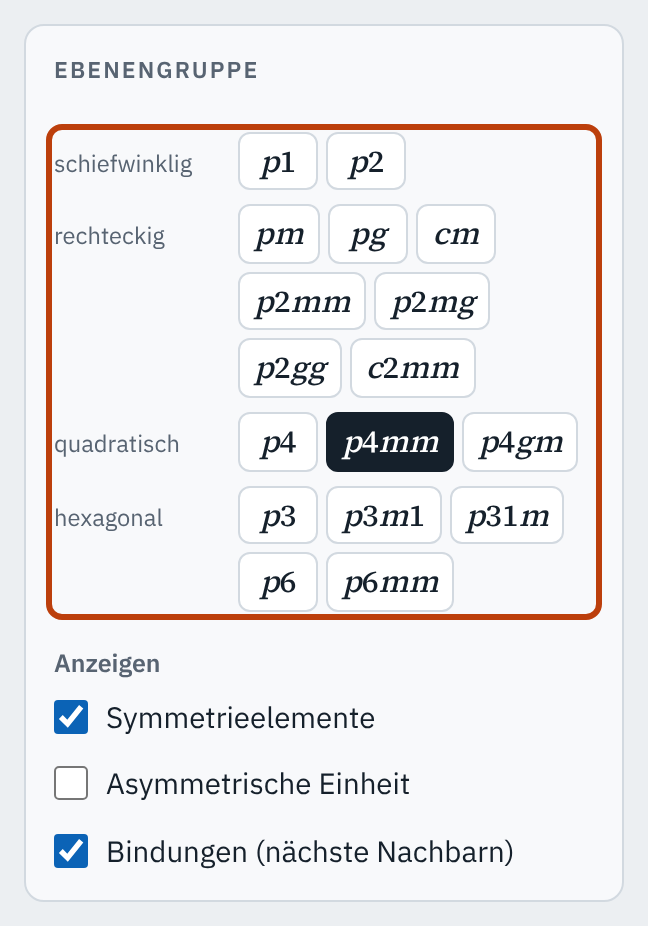
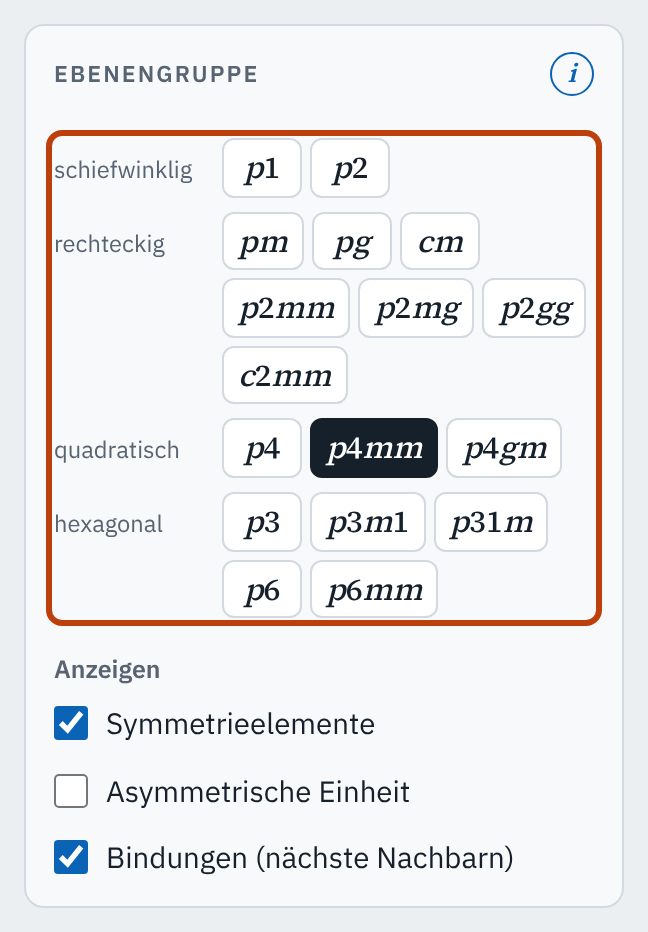
Gemeinsame Grundlage auf crystallography-common v0.20.0
ⓘ auf allen Geräten, nie allein umbrochen (crystallography-common#140);
Leitfaden 5.1 und 5.2 geschärft. Bilder der Hilfeseite neu.

Claude-Session: https://claude.ai/code/session_01L8SY96VTcRYuEB7LDLyNSV

diff --git a/lib/common/js/help.js b/lib/common/js/help.js
@@ -1,9 +1,8 @@
-// Hilfen: Tooltips (Laptop: Maus oder Tastaturfokus) und ⓘ-Erklärungen je Abschnitt (Touch-Geräte).
+// Hilfen: Tooltips (Laptop: Maus oder Tastaturfokus) und ⓘ-Erklärungen je Abschnitt (alle Geräte, #140).
 // Die Texte liefert die App (initHelp); hier steht nur die Mechanik. Stile in css/app.css (.tip, .infobtn, .helpbox).
 // Das zuletzt benutzte Zeigegerät steht als `data-zeiger` (maus | touch) an <html>; danach richten sich die Texte für
-// Maus und Touch (.only-fine, .only-coarse). Ein Stift zählt als Touch (kein Tooltip, Texte „antippen“). Nach dem ersten
-// Tippen steht dort zudem `data-touch`, und das ⓘ bleibt sichtbar, auch wenn danach wieder die Maus benutzt wird; meldet
-// der Browser hover: none, ist es immer sichtbar (#114). pruefeTooltips() ist für die Tests der App.
+// Maus und Touch (.only-fine, .only-coarse), auch im ⓘ, und die Grösse des ⓘ (28 px mit der Maus, 40 px mit Touch). Ein Stift zählt als Touch (kein Tooltip,
+// Texte „antippen“). pruefeTooltips() ist für die Tests der App.
 
 import { esc } from './format.js';
 
@@ -194,6 +193,36 @@ function buildHelpBox(sec) {
 }
 
 /**
+ * Hängt das ⓘ an das letzte Wort eines Titels, in einem Element, das nicht umbricht (`.nobr`): Bricht der Titel um,
+ * steht das ⓘ mit dem letzten Wort in der neuen Zeile, nie allein (Bedingung Thomas, #140). Endet der Titel mit einem
+ * Element (z. B. einem Symbol), wird dieses als Ganzes mit dem ⓘ zusammengehalten; der Titel einer `summary` steht
+ * deshalb als Text darin, nicht ganz in einem Element (sonst bräche er nicht mehr um).
+ * @param {HTMLElement} titel
+ * @param {HTMLElement} btn
+ */
+function anheften(titel, btn) {
+  const nobr = document.createElement('span');
+  nobr.className = 'nobr';
+  let letzter = titel.lastChild;
+  // Leerraum und Kommentare am Ende überspringen
+  while (letzter && (letzter.nodeType === Node.COMMENT_NODE || (letzter.nodeType === Node.TEXT_NODE && !letzter.textContent?.trim()))) {
+    const davor = letzter.previousSibling;
+    letzter.remove();
+    letzter = davor;
+  }
+  if (letzter && letzter.nodeType === Node.TEXT_NODE) {
+    const text = /** @type {Text} */ (letzter);
+    const t = text.data.trimEnd();
+    const i = t.search(/\S+$/);
+    text.data = t.slice(0, i);
+    nobr.append(t.slice(i));
+    if (!text.data) text.remove();
+  } else if (letzter) nobr.append(letzter);
+  nobr.append(btn);
+  titel.append(nobr);
+}
+
+/**
  * Tooltips und ⓘ-Erklärungen einrichten.
  * tips: Tooltip-Text (HTML) je Element-ID; bei Eingabefeldern erscheint er an der ganzen Zeile (.check, .range, .field).
  * sections: je Abschnitt { heading: Selektor der Überschrift (h2 oder summary), intro?: Einleitungssatz, ids: [Element-IDs] }.
@@ -215,12 +244,10 @@ export function initHelp({ tips = {}, sections = [], labels = {} } = {}) {
   /** @param {PointerEvent} e */
   const geraet = (e) => {
     maus = e.pointerType === 'mouse';
-    // für CSS (.only-fine, .only-coarse, .infobtn): nur bei einem Wechsel schreiben
+    // für CSS (.only-fine, .only-coarse, Grösse des ⓘ): nur bei einem Wechsel schreiben
     const zeiger = maus ? 'maus' : 'touch';
     const d = document.documentElement.dataset;
     if (d.zeiger !== zeiger) d.zeiger = zeiger;
-    // ⓘ: ab dem ersten Tippen, damit es nicht mit jeder Mausbewegung verschwindet (und eine offene Erklärung mit ihm)
-    if (!maus && d.touch === undefined) d.touch = '';
   };
   document.addEventListener('pointerdown', (e) => { geraet(e); tastatur = false; }, true);
   document.addEventListener('keydown', () => { tastatur = true; }, true);
@@ -247,7 +274,7 @@ export function initHelp({ tips = {}, sections = [], labels = {} } = {}) {
   document.addEventListener('keydown', (e) => { if (e.key === 'Escape') hideTip(); });
   window.addEventListener('scroll', hideTip, true);
 
-  // Touch: ⓘ an den Abschnittsüberschriften klappt die Erklärungen des Abschnitts auf
+  // ⓘ an den Abschnittsüberschriften klappt die Erklärungen des Abschnitts auf (auf allen Geräten, #140)
   for (const sec of sections) {
     const h = document.querySelector(sec.heading);
     if (!h) continue;
@@ -256,6 +283,7 @@ export function initHelp({ tips = {}, sections = [], labels = {} } = {}) {
     btn.className = 'infobtn';
     btn.setAttribute('aria-expanded', 'false');
     btn.setAttribute('aria-label', 'Erklärungen zu diesem Abschnitt');
+    setTip(btn, 'Erklärungen zu diesem Abschnitt ein- und ausklappen.');
     btn.innerHTML = '<span aria-hidden="true">i</span>';
     /** @type {HTMLElement | null} */
     let box = null;
@@ -280,10 +308,15 @@ export function initHelp({ tips = {}, sections = [], labels = {} } = {}) {
       btn.setAttribute('aria-expanded', 'true');
     });
     if (h.tagName === 'SUMMARY') {
+      // Titel (ohne .sumhint) in einem eigenen Element, das ⓘ fest am letzten Wort (#140)
+      const titel = document.createElement('span');
+      titel.className = 'sumtitel';
+      const hinweise = [...h.childNodes].filter((n) => n instanceof Element && n.classList.contains('sumhint'));
+      titel.append(...[...h.childNodes].filter((n) => !hinweise.includes(n)));
+      anheften(titel, btn);
       const label = document.createElement('span');
       label.className = 'sumlabel';
-      label.append(...h.childNodes);
-      label.append(btn);
+      label.append(titel, ...hinweise);
       h.append(label);
     } else h.append(btn);
   }

diff --git a/lib/common/css/app.css b/lib/common/css/app.css
@@ -184,28 +184,34 @@ a.helpbtn { display: inline-grid; place-items: center; text-decoration: none; }
 @media (pointer: coarse) {
   .ablauf-vermutung button { min-height: 40px; }
 }
-/* Hilfen: Tooltip (Laptop), ⓘ-Erklärungen (Touch) */
+/* Hilfen: Tooltip (Laptop), ⓘ-Erklärungen (alle Geräte, #140) */
 .tip {
   position: fixed; z-index: 50; max-width: 320px; padding: 7px 10px; border-radius: 7px; pointer-events: none;
   background: var(--ink); color: var(--paper); font-size: 0.8rem; line-height: 1.4; box-shadow: 0 4px 14px rgb(0 0 0 / 0.22);
 }
 .tip[hidden] { display: none; }
 .tip .ov { text-decoration: overline; }
+/* Trefferfläche mit der Maus 28 px (WCAG 2.5.8: 24 px), auf Touch-Geräten 40 px (Leitfaden 5.2); die negativen
+   Ränder halten die Zeile etwa so hoch wie ohne ⓘ (einige px höher) */
 .infobtn {
-  display: none; place-items: center; flex: none; width: 40px; height: 40px; margin: -10px -8px -10px 2px;
-  padding: 0; border: 0; background: transparent; cursor: pointer; color: var(--accent);
+  display: inline-grid; place-items: center; flex: none; width: 28px; height: 28px; margin: -4px -3px -4px 1px;
+  padding: 0; border: 0; background: transparent; cursor: pointer; color: var(--accent); vertical-align: middle;
 }
 .infobtn span {
   display: grid; place-items: center; width: 22px; height: 22px; border: 1.5px solid currentColor; border-radius: 50%;
   font: italic 600 0.82rem/1 var(--font-display); text-transform: none; letter-spacing: 0;
 }
 .infobtn[aria-expanded="true"] span { background: var(--accent); color: var(--paper); border-color: var(--accent); }
-/* ⓘ auf Touch-Geräten; auch nach dem ersten Tippen auf den Touchscreen eines Laptops, der hover: hover meldet
-   (data-touch, help.js, #114) */
-@media (hover: none) { .infobtn { display: inline-grid; } }
-:root[data-touch] .infobtn { display: inline-grid; }
+@media (pointer: coarse) { .infobtn { width: 40px; height: 40px; margin: -10px -8px -10px 2px; } }
+/* wie .tools button.sym: nach dem Tippen auch auf einem Laptop, der pointer: fine meldet (data-zeiger, help.js) */
+:root[data-zeiger="touch"] .infobtn { width: 40px; height: 40px; margin: -10px -8px -10px 2px; }
+/* und umgekehrt mit der Maus auf einem Gerät, das pointer: coarse meldet (Laptop mit Touchscreen unter Windows) */
+:root[data-zeiger="maus"] .infobtn { width: 28px; height: 28px; margin: -4px -3px -4px 1px; }
+/* ⓘ fest am letzten Wort des Titels (anheften in help.js): bricht nie allein in eine neue Zeile (#140) */
+.nobr { white-space: nowrap; }
 .card h2 { display: flex; align-items: center; justify-content: space-between; }
 .sumlabel { display: inline-flex; align-items: center; }
+.sumtitel { min-width: 0; }
 .helpbox {
   margin: 4px 0 10px; padding: 10px 12px; border-radius: 8px; border: 1px solid color-mix(in srgb, var(--accent) 40%, var(--line));
   background: color-mix(in srgb, var(--accent) 6%, var(--paper)); font-size: 0.84rem; text-transform: none; letter-spacing: 0; font-weight: 400; color: var(--ink);

diff --git a/lib/common/js/version.js b/lib/common/js/version.js
@@ -1,2 +1,2 @@
 // Version von crystallography-common (Semantic Versioning). Gleich in CHANGELOG.md und im Tag vX.Y.Z.
-export const COMMON_VERSION = '0.19.0';
+export const COMMON_VERSION = '0.20.0';

diff --git a/CHANGELOG.md b/CHANGELOG.md
@@ -6,6 +6,10 @@ Das Format folgt [Keep a Changelog](https://keepachangelog.com/de/1.1.0/), die V
 
 ## [Unreleased]
 
+### Geändert
+
+- **Gemeinsame Grundlage** auf crystallography-common v0.20.0: Das ⓘ an den Überschriften erscheint auf allen Geräten, auch mit der Maus (crystallography-common#140), und bricht nie allein in eine neue Zeile; mit der Maus ist seine Trefferfläche 28 px. Leitfaden 5.1 (Erklärabläufe, Zoom und Übergänge zwischen Modi gehören in die Tafel) und 5.2 (Grund unter einem gesperrten Element in einem Halbsatz); die App folgt darin mit #162.
+
 ## [1.4.0] - 2026-11-12
 
 Seitenleiste und Tafel neu geordnet: Werkzeugleiste als Symbole über Tafel A, Rückgängig für Motive und Striche, „Alle Motive löschen“, Einrasten in allen Modi, Export als Knopf mit Menü, Anleitungstexte im ⓘ und in der Legende; kürzere Tooltips; Experimente in „Muster entwerfen“ stehen für sich; schmaleres gleichschenkliges Dreieck; Bestimmung bei Gittern knapp neben einem speziellen; gemeinsame Grundlage v0.19.0. Link-Adressen und Speicher bleiben gültig.
